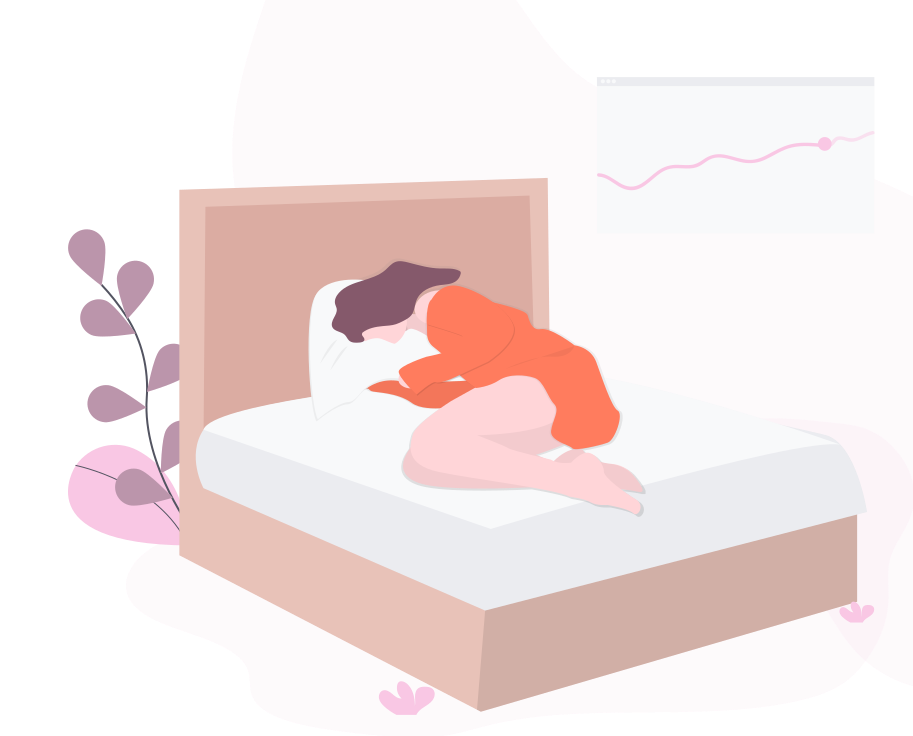
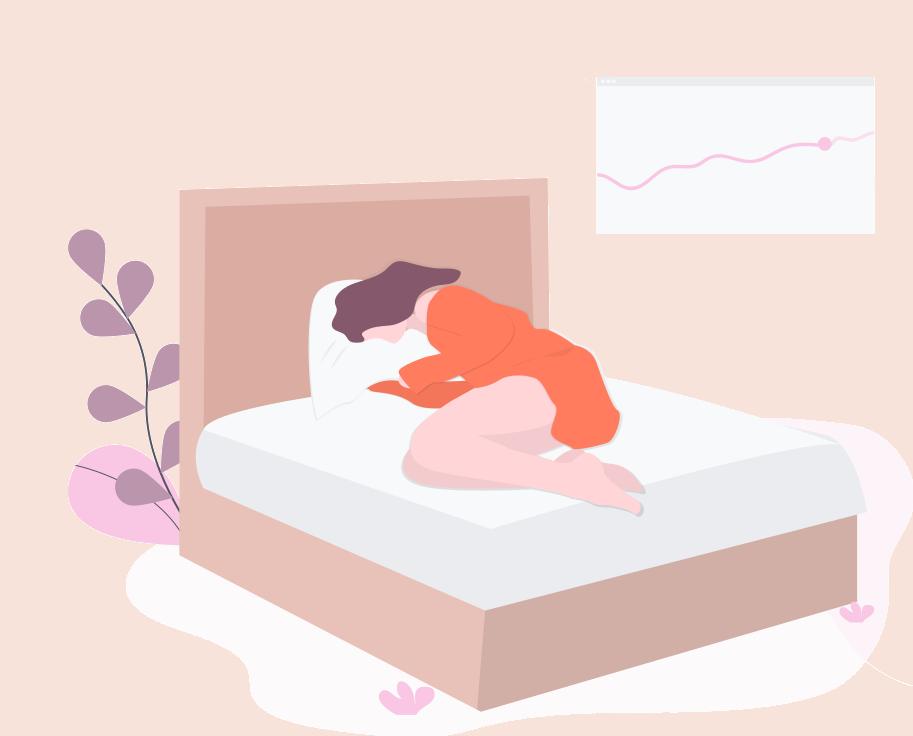
Added background colour and polished sleep image

diff --git a/sleep-diary/screens/TabOneScreen.tsx b/sleep-diary/screens/TabOneScreen.tsx
@@ -9,7 +9,7 @@ const TabOneScreen = ({ navigation }) => {
   return (
     <View style={styles.container}>
       <Text style={styles.title}>Sleep Analyser</Text>
-      <View style={styles.separator} lightColor="#eee" darkColor="rgba(255,255,255,0.1)" />
+      <View style={styles.separator} lightColor="#F9C7E4" darkColor="rgba(255,255,255,0.1)" />
 
       <Image
         style = {styles.imageProportions}
@@ -17,22 +17,24 @@ const TabOneScreen = ({ navigation }) => {
         resizeMode = "contain"
       />
 
-      <Button
-        style = {styles.button}
-        labelStyle = {{ color: "black" }}
-        mode = "contained"
-        onPress = {() => navigation.navigate("TabTwo")}
-      >
-        Login
-      </Button>
+      <View style = {styles.buttonGroup}>
+        <Button
+          style = {styles.button}
+          labelStyle = {{ color: "black" }}
+          mode = "contained"
+          onPress = {() => navigation.navigate("TabTwo")}
+        >
+          Login
+        </Button>
 
-      <Button
-        style = {styles.button}
-        labelStyle = {{ color: "black" }}
-        mode = "contained"
-      >
-        Sign Up
-      </Button>
+        <Button
+          style = {styles.button}
+          labelStyle = {{ color: "black" }}
+          mode = "contained"
+        >
+          Sign Up
+        </Button>
+      </View>
 
     </View>
   );
@@ -43,6 +45,7 @@ const styles = StyleSheet.create({
     flex: 1,
     alignItems: 'center',
     justifyContent: 'center',
+    backgroundColor: "#F7E3D9", // Background color for whole screen
   },
   title: {
     fontSize: 35,
@@ -50,17 +53,23 @@ const styles = StyleSheet.create({
   },
   separator: {
     marginVertical: "3%",
-    height: 1,
+    height: 3,
     width: '75%',
   },
   imageProportions: {
     height: "45%",
     width: "85%",
   },
+  buttonGroup: {
+    marginTop: 30,
+    backgroundColor: "#F7E3D9", // Adds the background color to the box
+  },
   button: {
-    marginVertical: 5,
+    marginVertical: 20,
     width: 135,
     backgroundColor: "#F9C7E4",
+    borderColor: "black",
+    borderWidth: 1,
   }
 });
 

diff --git a/sleep-diary/screens/TabTwoScreen.tsx b/sleep-diary/screens/TabTwoScreen.tsx
@@ -19,6 +19,8 @@ const styles = StyleSheet.create({
     flex: 1,
     alignItems: 'center',
     justifyContent: 'center',
+    backgroundColor: "red",
+    backgroundColor: "#F7E3D9",
   },
   title: {
     fontSize: 20,
